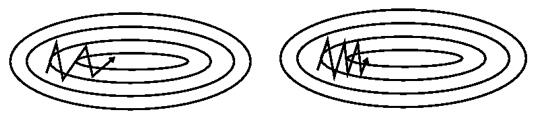
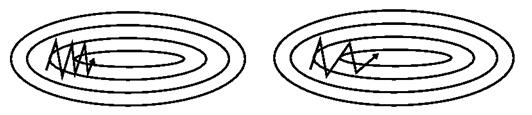
.

Changed region(s): [[0.5113, 0.0522, 0.9925, 0.9391], [0.0, 0.0783, 0.4812, 0.9391]]

diff --git a/source/_posts/deep-learning-optimization.md b/source/_posts/deep-learning-optimization.md
@@ -43,7 +43,7 @@ $$\theta = \theta - \eta \cdot \nabla_\theta J( \theta)$$
 
 ### Momentum
 &emsp;&emsp;SGD存在一个缺陷就是，当某一个方向(维度)梯度较大、另一个方向梯度较小时，代价函数可能会在大梯度方向以大步长来回振荡，而在小梯度方向缓慢前进，造成收敛缓慢。Momentum受到物理学中动量的启发，能够在相关方向加速SGD，并抑制振荡，加快收敛
-<img src="https://i.loli.net/2017/09/17/59be150c4a4d4.jpg" alt="momentum.jpg" title="SGD without momentum(left) and with momentum(right)" />
+<img src="https://i.loli.net/2017/12/23/5a3e02df1d688.jpg" alt="momentum.jpg" title="SGD without momentum(left) and with momentum(right)" />
 
 \begin{split}
 v\_t &= \gamma v\_{t-1} + \eta \nabla\_\theta J(\theta) \cr
